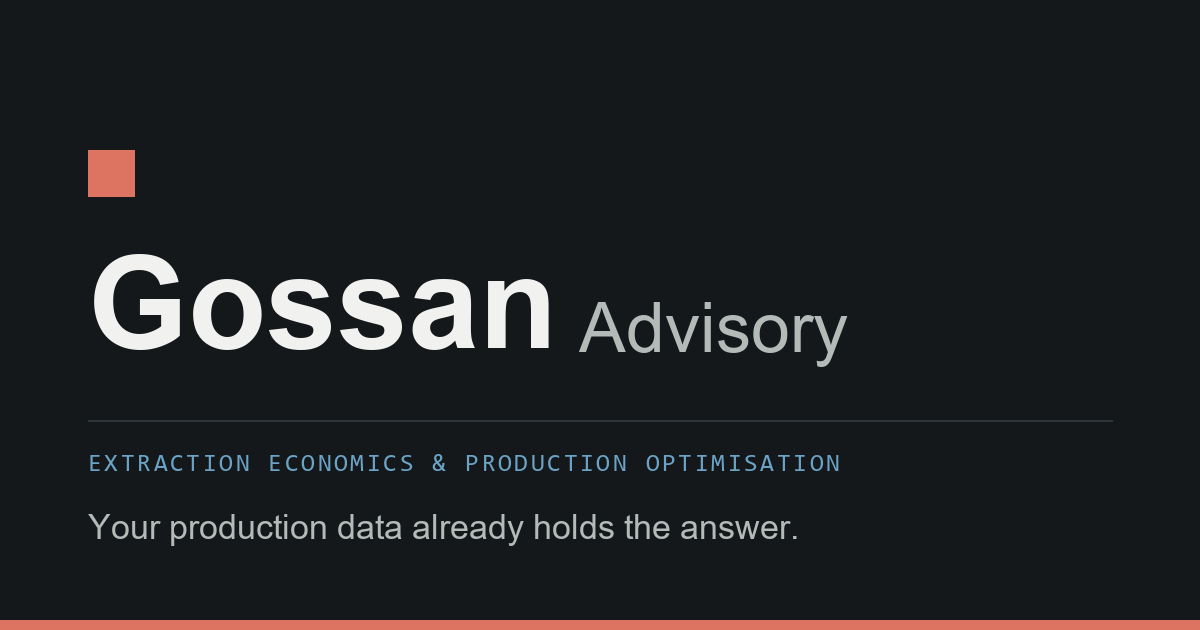
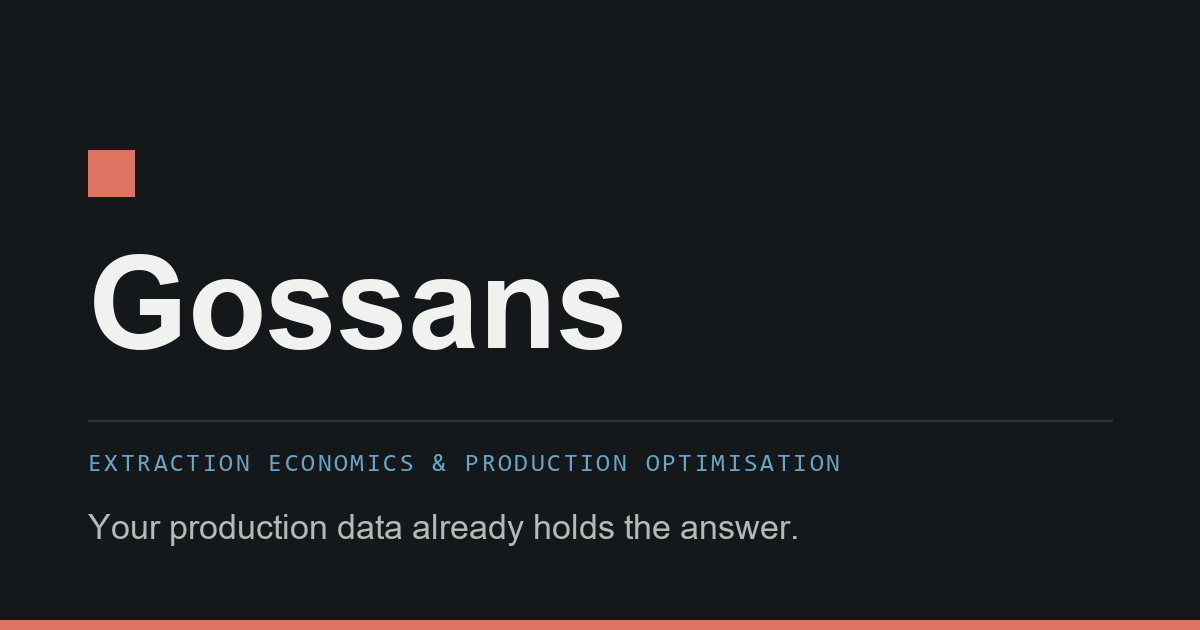
Rename the firm to Gossans
Drops the Advisory suffix so the name matches the domain exactly. Wordmark,
titles, metadata, 404 page, footer and social card all follow, and the now
unused .suffix rule is removed rather than left to rot.

The etymology section gains a line explaining the plural: one reading covers
one asset, and the comparison across a portfolio is where decisions are made.

Changed region(s): [[0.4625, 0.4222, 0.7092, 0.573]]

diff --git a/index.html b/index.html
@@ -3,22 +3,22 @@
 <head>
 <meta charset="utf-8">
 <meta name="viewport" content="width=device-width, initial-scale=1">
-<title>Gossan Advisory</title>
+<title>Gossans</title>
 <meta name="description" content="Fixed-fee extraction economics. We rebuild your assets as one auditable model, fit it to what they actually produced, and rank what to do next with a price and a probability on every line.">
 <link rel="canonical" href="https://www.gossans.com/">
 
 <meta property="og:type" content="website">
-<meta property="og:site_name" content="Gossan Advisory">
+<meta property="og:site_name" content="Gossans">
 <meta property="og:url" content="https://www.gossans.com/">
-<meta property="og:title" content="Gossan Advisory">
+<meta property="og:title" content="Gossans">
 <meta property="og:description" content="Your production data already holds the answer. It is usually being read wrong. Fixed-fee extraction economics for operators, private capital and lenders.">
 <meta property="og:image" content="https://www.gossans.com/og-image.png">
 <meta property="og:image:width" content="1200">
 <meta property="og:image:height" content="630">
-<meta property="og:image:alt" content="Gossan Advisory: extraction economics and production optimisation">
+<meta property="og:image:alt" content="Gossans: extraction economics and production optimisation">
 <meta name="twitter:card" content="summary_large_image">
 <meta name="twitter:image" content="https://www.gossans.com/og-image.png">
-<meta name="twitter:title" content="Gossan Advisory">
+<meta name="twitter:title" content="Gossans">
 <meta name="twitter:description" content="Fixed-fee extraction economics. We find the value your model is not showing you.">
 
 <meta name="theme-color" content="#f1f2ef" media="(prefers-color-scheme: light)">
@@ -193,14 +193,6 @@ header.plate { padding: 44px 0 0; }
   font-size: clamp(30px, 4vw, 42px);
   letter-spacing: -.035em;
   line-height: 1;
-}
-.wordmark .suffix {
-  font-family: var(--f-display);
-  font-weight: 500;
-  font-size: clamp(19px, 2.4vw, 25px);
-  letter-spacing: -.01em;
-  color: var(--ink-2);
-  margin-left: -4px;
 }
 .wordmark .kicker {
   font-family: var(--f-data);
@@ -592,8 +584,7 @@ img, svg, video { max-width: 100%; height: auto; }
   <header class="plate">
     <div class="wordmark">
       <span class="sq" aria-hidden="true"></span>
-      <span class="name">Gossan</span>
-      <span class="suffix">Advisory</span>
+      <span class="name">Gossans</span>
       <span class="kicker">Extraction economics &amp; production optimisation</span>
     </div>
 
@@ -642,7 +633,7 @@ img, svg, video { max-width: 100%; height: auto; }
         priced for a major.
       </p>
       <p>
-        Gossan works the other way round. We bring the modelling
+        Gossans works the other way round. We bring the modelling
         engine, you bring the data, and what you receive is a study: a written
         report, the underlying model files, and a workshop with the people who
         run the asset. There is no seat to license and nothing to administer
@@ -1121,7 +1112,7 @@ convert tail to gas lift      cost <b>$2.4M</b>   risked <b>&minus;$2.4M</b>   w
   <div class="block">
     <div class="rail"><b>Name</b><span>Etymology</span></div>
     <div class="col prose">
-      <h2>Why Gossan</h2>
+      <h2>Why Gossans</h2>
       <p>
         A gossan is the iron-stained crust that forms where an orebody reaches
         the surface and weathers. It is not the ore. It is the rust the ore
@@ -1136,6 +1127,11 @@ convert tail to gas lift      cost <b>$2.4M</b>   risked <b>&minus;$2.4M</b>   w
         an asset whose real behaviour is underground and cannot be observed
         directly. The data is already there, and it is already telling you
         something. The work is reading it correctly.
+      </p>
+      <p>
+        The name is plural because the work is. One reading tells you about one
+        asset. The comparison across a portfolio, on a single consistent basis,
+        is where the decisions actually get made.
       </p>
     </div>
   </div>
@@ -1159,7 +1155,7 @@ convert tail to gas lift      cost <b>$2.4M</b>   risked <b>&minus;$2.4M</b>   w
   </div>
 
   <footer class="colophon">
-    <span>Gossan Advisory &middot; Extraction economics and production optimisation</span>
+    <span>Gossans &middot; Extraction economics and production optimisation</span>
     <button class="theme-btn" type="button" id="theme">Light / dark</button>
   </footer>
 

diff --git a/404.html b/404.html
@@ -3,7 +3,7 @@
 <head>
 <meta charset="utf-8">
 <meta name="viewport" content="width=device-width, initial-scale=1">
-<title>Page not found &middot; Gossan Advisory</title>
+<title>Page not found &middot; Gossans</title>
 <meta name="robots" content="noindex">
 <meta name="theme-color" content="#f1f2ef" media="(prefers-color-scheme: light)">
 <meta name="theme-color" content="#14181a" media="(prefers-color-scheme: dark)">
@@ -105,7 +105,7 @@ a.back:focus-visible { outline: 2px solid var(--redline); outline-offset: 2px; }
 </head>
 <body>
   <div class="wrap">
-    <div class="mark"><i></i><span>Gossan</span></div>
+    <div class="mark"><i></i><span>Gossans</span></div>
     <div class="code">Error 404 &middot; No such page</div>
     <h1>Nothing outcrops here.</h1>
     <p>

diff --git a/tools/make-assets.py b/tools/make-assets.py
@@ -106,13 +106,10 @@ def write_og_image() -> None:
     draw.rectangle([left, 150, left + 46, 196], fill=RUST_DARK)
 
     name = load("bold", 128)
-    suffix = load("regular", 70)
     label = load("mono", 25)
     line = load("regular", 34)
 
-    draw.text((left, 232), "Gossan", font=name, fill=PAPER)
-    name_width = draw.textlength("Gossan", font=name)
-    draw.text((left + name_width + 22, 288), "Advisory", font=suffix, fill=MUTED)
+    draw.text((left, 232), "Gossans", font=name, fill=PAPER)
 
     draw.line([(left, 420), (width - left, 420)], fill=RULE, width=2)
 

diff --git a/README.md b/README.md
@@ -1,6 +1,6 @@
 # www.gossans.com
 
-The Gossan Advisory website. One static page, no build step, no dependencies.
+The Gossans website. One static page, no build step, no dependencies.
 
 ```
 index.html      the site: markup, styles and one small script, all inline
@@ -116,7 +116,7 @@ for a small site.
 - [ ] Register `gossanadvisory.com` and point it at this site as a redirect,
       because anyone who hears the firm's name will type that first
 - [ ] Create the `hello@gossans.com` mailbox the contact button points to
-- [ ] Run a USPTO wordmark search for Gossan, as Gossan Resources trades in Canada
+- [ ] Run a USPTO wordmark search for Gossans, as Gossan Resources trades in Canada
 - [x] ~~Social image and raster icons~~ generated by `tools/make-assets.py`
 - [ ] Decide whether to name yourself on the page, since a single-principal
       advisory converts better with a named person and a credential line
